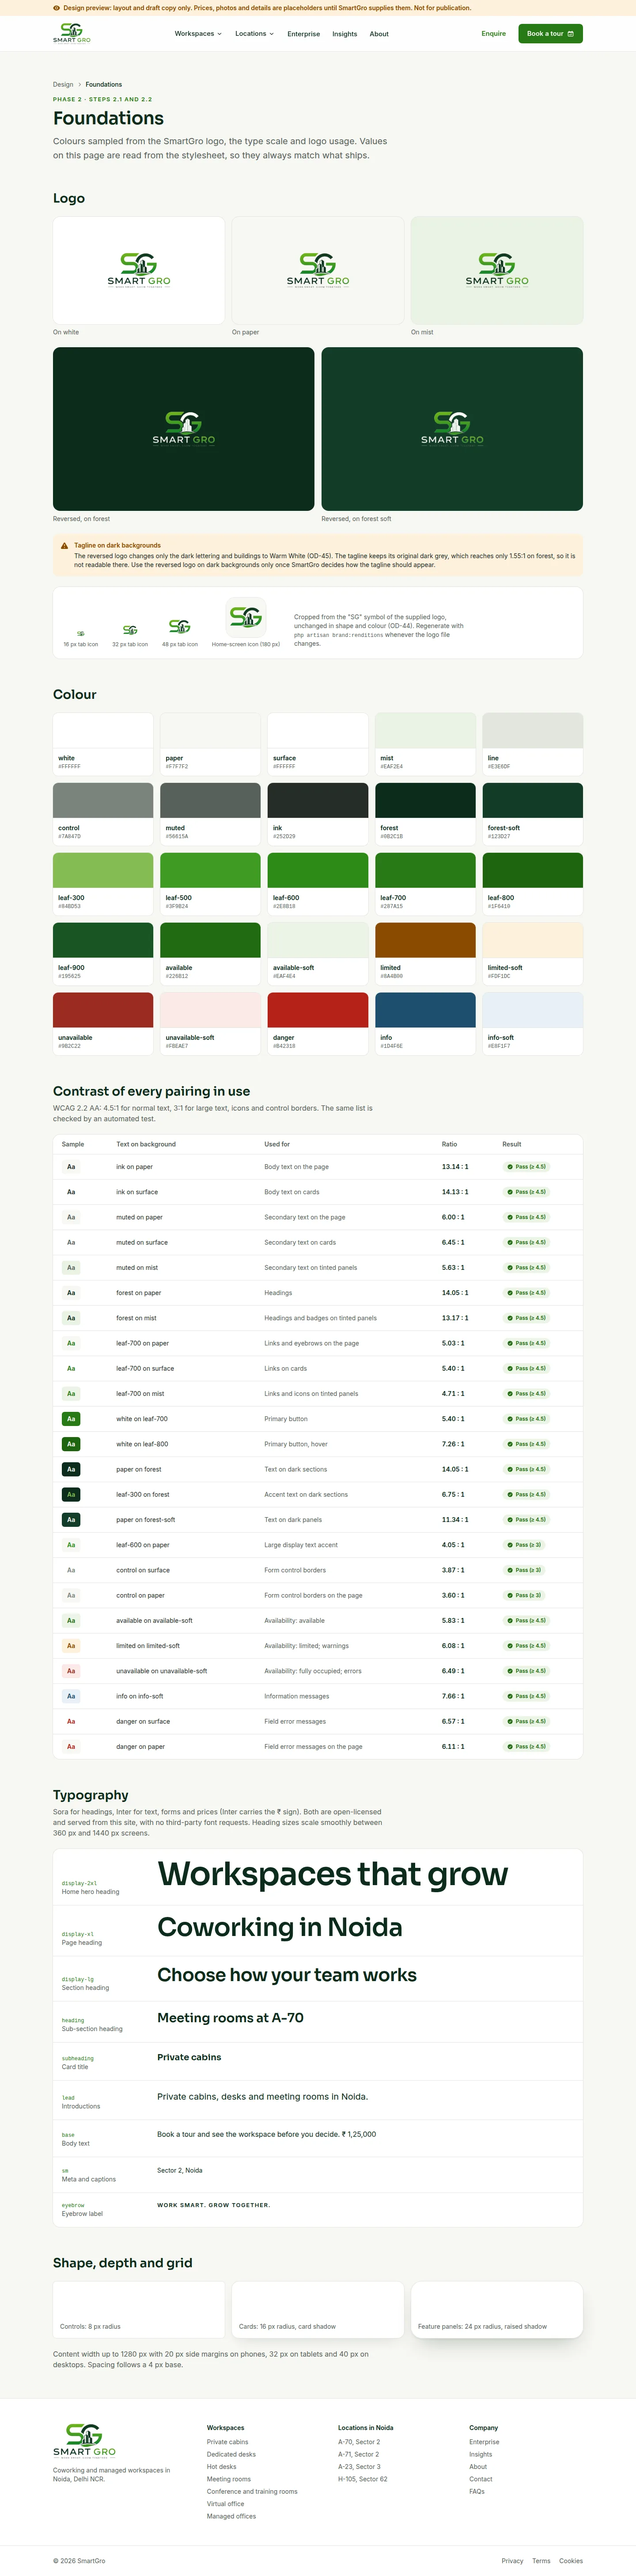
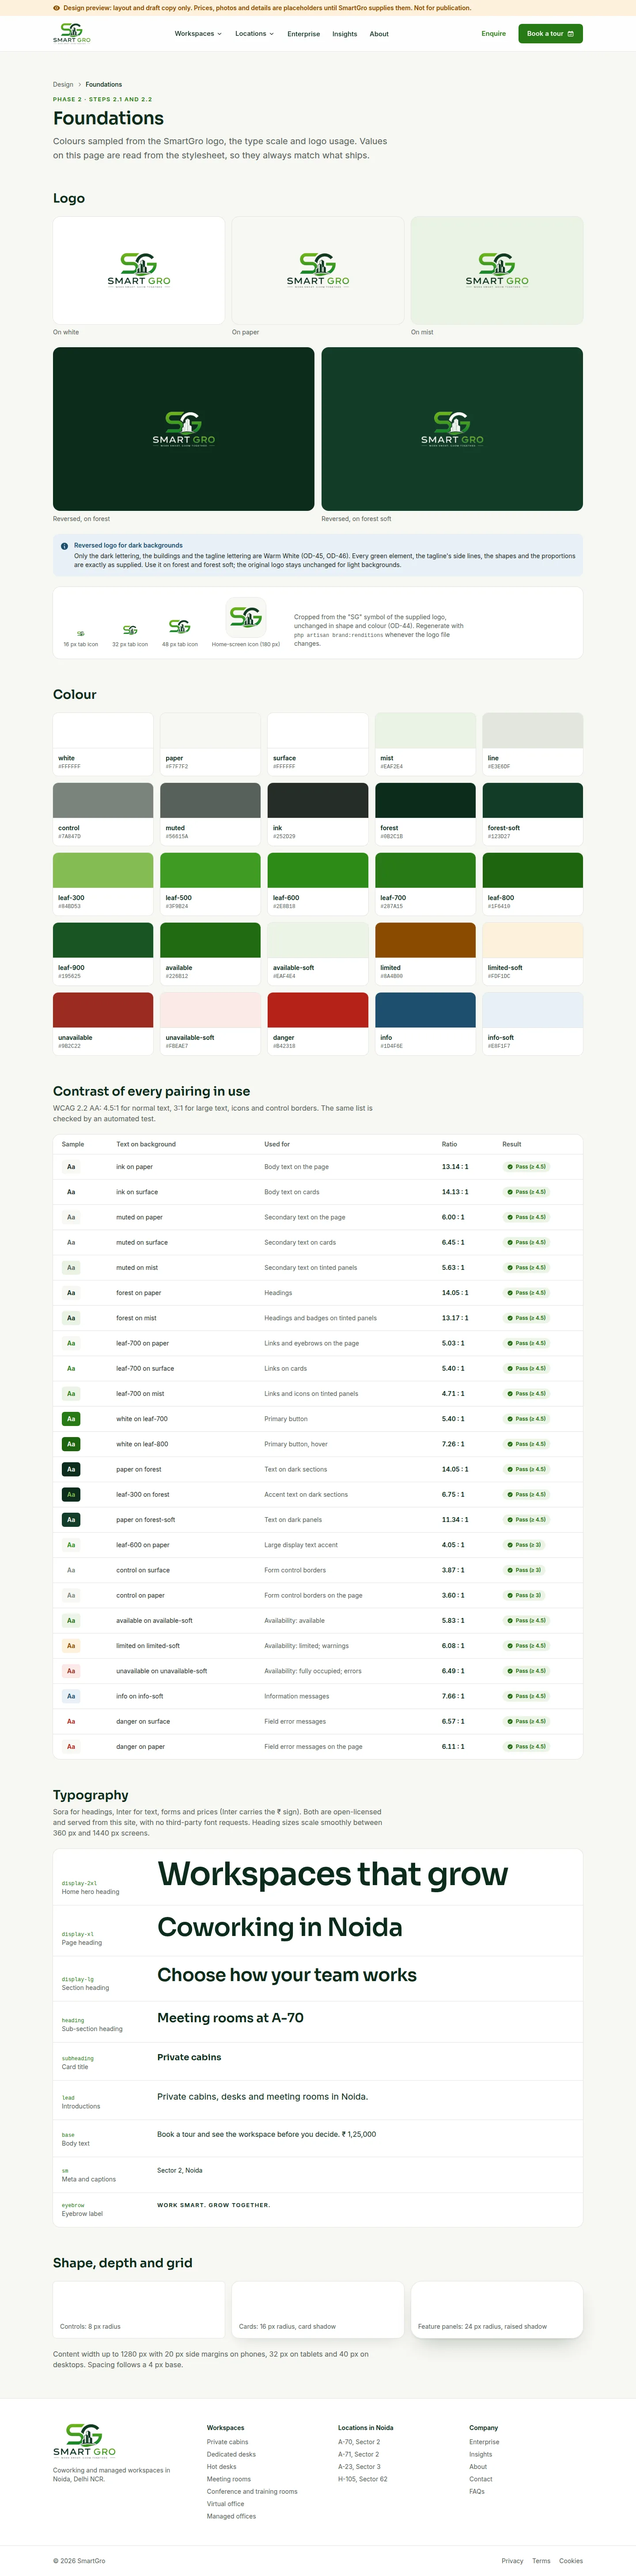
docs: record owner decision OD-46 and its verification
Decision register: OD-46 (tagline lettering white in the dark-background
logo) with the owner's conditions; P2-C still not signed off. Design
system §7.6: regression evidence. Phase status: full suite 188 passed.
Updated foundations review screenshots.

Changed region(s): [[0.0625, 0.1875, 0.9375, 0.25]]

diff --git a/docs/phases/PHASE_STATUS.md b/docs/phases/PHASE_STATUS.md
@@ -11,7 +11,7 @@
 |---|---|---|---|
 | 0 | Discovery, audit, requirements clarification | **APPROVED in principle** (project owner, 2026-10-24) | — (open items carried into Phase 1) |
 | 1 | PRD, IA, architecture, database design, acceptance criteria | **APPROVED** (owner, 2026-10-24: "continue next phase") | — (deferred items carried to the Phase 3 and Phase 5 gates) |
-| 2 | Brand system, UX/UI, design system | **IN PROGRESS** (started 2026-10-24, OD-41) | **owner review of the home-page screenshots (AC-2.5, P2-C)**; tagline on dark backgrounds (Q-OW-16); vector master still requested (D-11b) |
+| 2 | Brand system, UX/UI, design system | **IN PROGRESS** (started 2026-10-24, OD-41) | **owner review of the home-page screenshots (AC-2.5, P2-C)**; the remaining layouts wait for that approval; vector master still requested (D-11b) |
 | 3 | Foundation, auth, permissions, security | **IN PROGRESS** (started 2026-10-24) | step 3.1 needs the GitHub organisation name (D-31) and a dedicated MySQL user (R-14); staging needs the hosting decision (D-14) |
 | 4 | CMS, page builder, media, publishing | NOT STARTED | Phases 2, 3 |
 | 5 | Inventory, pricing, availability | NOT STARTED | Phase 3; entry gate: floors and real inventory, pricing values PR-1…PR-11 |
@@ -82,9 +82,9 @@
 | Steps | **2.1** colour tokens from the logo, contrast-verified · **2.2** typefaces and fluid type scale · **2.3** logo renditions (favicon, mark, reversed: *need owner approval*) · **2.4** component library with all states · **2.5** visual-direction sample (home page, 360 px and 1440 px) → **owner sign-off (AC-2.5)** · **2.6** remaining high-fidelity templates and flows · **2.7** responsive specification · **2.8** accessibility and state-coverage verification |
 | Content rule | Design previews use only confirmed facts (OD-01, OD-03, OD-04, OD-07, OD-08). Anything else (prices, hours, amenities, photography, copy) is a visibly labelled placeholder. Previews are never served in production and carry `noindex`. |
 | Acceptance criteria | `PROJECT_MASTER_PLAN.md` §2, Phase 2, AC-2.1 to AC-2.5 |
-| Progress (2026-10-24) | **Built for review:** 2.1 colour tokens sampled from the logo, all 24 pairings in use pass WCAG 2.2 AA · 2.2 Sora + Inter, self-hosted, fluid type scale · 2.4 component library (buttons, form controls, availability badges, prices, photo placeholders, alerts, empty and loading states, cards, breadcrumb, FAQ, header with menus, footer, mobile action bar, call-to-action band) · 2.5 home-page direction sample. Previews at `/design` (local and staging only). Screenshots at 360 px and 1440 px in `../design/review/2026-10-24/`. **Round 9 (OD-42…OD-45):** P2-A, P2-B, P2-D and P2-E approved; **P2-C (visual direction) not signed off**. Since then: 2.3 logo renditions built (tab icon, home-screen icon, reversed logo; `php artisan brand:renditions`) · 2.7 responsive specification written (`../design/DESIGN_SYSTEM.md` §8) · 2.8 started (page-structure and alt-text checks on every preview; no sideways scrolling at 320–1440 px). **Waiting:** step 2.6 (remaining templates) waits for AC-2.5, because it depends on the home-page direction; Q-OW-16 (tagline on dark backgrounds). |
+| Progress (2026-10-24) | **Built for review:** 2.1 colour tokens sampled from the logo, all 24 pairings in use pass WCAG 2.2 AA · 2.2 Sora + Inter, self-hosted, fluid type scale · 2.4 component library (buttons, form controls, availability badges, prices, photo placeholders, alerts, empty and loading states, cards, breadcrumb, FAQ, header with menus, footer, mobile action bar, call-to-action band) · 2.5 home-page direction sample. Previews at `/design` (local and staging only). Screenshots at 360 px and 1440 px in `../design/review/2026-10-24/`. **Round 9 (OD-42…OD-45):** P2-A, P2-B, P2-D and P2-E approved; **P2-C (visual direction) not signed off**. Since then: 2.3 logo renditions built (tab icon, home-screen icon, reversed logo; `php artisan brand:renditions`) · 2.7 responsive specification written (`../design/DESIGN_SYSTEM.md` §8) · 2.8 started (page-structure and alt-text checks on every preview; no sideways scrolling at 320–1440 px). **Round 10 (OD-46):** tagline lettering white in the dark-background logo, built and verified. **Waiting:** step 2.6 (remaining page layouts) is **not started** and waits for the owner's approval of the home page (AC-2.5). |
 | Acceptance criteria status | AC-2.1: met for everything built so far (automated test over every pairing in use). AC-2.2: home, components and foundations captured at 360 px and 1440 px; the other templates follow in 2.6. AC-2.3: buttons, form controls and cards have default, hover, focus, disabled, error, empty and loading states; templates in 2.6 reuse them. AC-2.4: nothing taken from competitors or the old site; all graphics are original (photo placeholders, isometric floor illustration). AC-2.5: **not signed off**; the owner is reviewing the screenshots (round 9). |
-| Tests and results | **Full suite, 2026-10-24 (after round 9):** `php artisan test --compact` on local MySQL 8.4 → **183 passed, 0 failed (416 assertions, 29.1 s, exit code 0)**, including the 7 MySQL concurrency-harness tests. Pint clean. Earlier: Phase 2 tests (`tests/Feature/{Services/Design,Http/Middleware/EnsureDesignPreviewIsAvailableTest.php,Http/Controllers,Views}`) **56 passed**; together with the Phase 3 tests and architecture rules **157 passed, 0 failed**. Pint clean. Build: CSS 10.7 KB gzip, first-party JS 0 KB on marketing pages. |
+| Tests and results | **Full suite, 2026-10-24 (after round 10):** `php artisan test --compact` → **188 passed, 0 failed (429 assertions, 31.8 s, exit code 0)**; of these, logo renditions 17 passed, contrast checks 28 passed, design previews/page structure/components 33 passed. Visual checks: no sideways scrolling at 320, 360, 768, 1024 or 1440 px on any preview; the home page renders pixel-identical to the screenshots under review (1440 and 360 px). **After round 9:** `php artisan test --compact` on local MySQL 8.4 → **183 passed, 0 failed (416 assertions, 29.1 s, exit code 0)**, including the 7 MySQL concurrency-harness tests. Pint clean. Earlier: Phase 2 tests (`tests/Feature/{Services/Design,Http/Middleware/EnsureDesignPreviewIsAvailableTest.php,Http/Controllers,Views}`) **56 passed**; together with the Phase 3 tests and architecture rules **157 passed, 0 failed**. Pint clean. Build: CSS 10.7 KB gzip, first-party JS 0 KB on marketing pages. |
 | Known issues | Raster logo only (D-11b): large and print uses wait for a vector master. No reversed logo, so the logo appears only on light backgrounds (P2-E). Design previews use labelled placeholders for photos, prices, availability and FAQ answers. |
 
 ## Phases 4–15
@@ -96,6 +96,7 @@ Scope, deliverables and acceptance criteria are defined in `PROJECT_MASTER_PLAN.
 
 | Date | Change |
 |---|---|
+| 2026-10-24 | Round 10: OD-46 (tagline lettering white in the dark-background logo) recorded and implemented; regression checks show only the tagline lettering changed. Home page still not signed off; remaining layouts not started. |
 | 2026-10-24 | Round 9: P2-A, P2-B, P2-D, P2-E approved (OD-42…OD-45); P2-C not signed off. Logo renditions, responsive specification and preview accessibility checks added. Q-OW-16 raised (tagline on dark backgrounds). |
 | 2026-10-24 | Phase 2 steps 2.1, 2.2, 2.4 and 2.5 built: logo-sampled tokens (all pairings AA), Sora + Inter, component library with states, home-page direction sample, previews and screenshots at 360/1440 px. 157 tests pass. Waiting on the owner for AC-2.5 and P2-A…P2-E. |
 | 2026-10-24 | Round 8 ("ok smart gro ok phase 2"): written name stays "SmartGro" (OD-40); **Phase 2 started** (OD-41). |

diff --git a/docs/design/DESIGN_SYSTEM.md b/docs/design/DESIGN_SYSTEM.md
@@ -170,7 +170,7 @@ Sampled from the supplied logo (§3.1) where a logo colour exists; the rest keep
 | P2-B | Sora for headings, Inter for text | **approved (OD-43)** |
 | P2-C | **Visual direction** shown in `review/2026-10-24/` and at `/design/home` (AC-2.5) | **under owner review**; not signed off |
 | P2-D | Favicon and app icons made by **cropping the "SG" monogram** from the supplied logo, without reshaping or recolouring | **approved (OD-44)**; built (§7.6) |
-| P2-E | A **reversed logo** for dark backgrounds made by recolouring only the dark wordmark and buildings to Warm White; geometry unchanged | **approved (OD-45)**; built (§7.6); tagline question Q-OW-16 open |
+| P2-E | A **reversed logo** for dark backgrounds made by recolouring only the dark wordmark and buildings to Warm White; geometry unchanged | **approved (OD-45)**; tagline lettering added by OD-46; built (§7.6) |
 
 ### 7.5 Engineering decisions made in Phase 2
 
@@ -186,12 +186,14 @@ Generated from the unmodified original by `php artisan brand:renditions` (`App\A
 | File | What it is |
 |---|---|
 | `public/brand/smartgro-logo.webp` | byte-identical copy of the original |
-| `public/brand/smartgro-logo-reversed.webp` | dark ink ("SMART", upper arc of the G, buildings, base arc) changed to Warm White `#F7F7F2`; greens, building faces, tagline and transparency unchanged (lossless WebP). Each pixel is treated as a blend of the ink and its nearest other logo colour, so only the ink share changes and soft edges are kept: 11,228 of 11,235 clear-green pixels are byte-identical, and the other 7 are anti-aliased edge pixels. |
+| `public/brand/smartgro-logo-reversed.webp` | dark ink ("SMART", upper arc of the G, buildings, base arc) **and the tagline lettering** (OD-46) changed to Warm White `#F7F7F2`; greens, building faces, the tagline's thin side lines and the transparency of every pixel unchanged (lossless WebP). In the symbol and wordmark each pixel is treated as a blend of the ink and its nearest other logo colour, so only the ink share changes and soft edges are kept (11,228 of 11,235 clear-green pixels byte-identical; the other 7 are anti-aliased edge pixels). In the tagline row, long runs no taller than 3 px are the side lines and are left alone; every other visible pixel is lettering. |
 | `public/brand/smartgro-mark.png` | the "SG" symbol cropped from the logo (222 px square, transparent), unchanged |
 | `public/favicon.ico` | the symbol at 16, 32 and 48 px |
 | `public/brand/apple-touch-icon.png` | the symbol at 144 px centred on a 180 px Warm White square, because iOS rounds icon corners; the symbol itself is unchanged |
 
-The site layout and the back office both link the tab icon. The back office keeps dark mode off until Q-OW-16 is decided, so the logo never appears with an unreadable tagline.
+The site layout and the back office both link the tab icon. The back office still has dark mode off; with the complete reversed logo it can now be switched on (not done yet).
+
+**Tagline change verified (2026-10-24, OD-46):** compared with the previous reversed logo, 0 pixels changed outside the tagline row and 0 side-line pixels changed; all 1,445 visible lettering pixels are Warm White; the transparency of every pixel is identical to the original, so the letters, "WORK SMART. GROW TOGETHER.", proportions and alignment are exactly as supplied. Tagline lettering on forest: 14.06 : 1 (was 1.55 : 1). The original file is unchanged (SHA-256 `2957453080…964b`, as recorded in OD-39), and the web copy, symbol, tab icon and home-screen icon are byte-identical to before.
 
 ---
 

diff --git a/docs/decisions/DECISION_REGISTER.md b/docs/decisions/DECISION_REGISTER.md
@@ -182,7 +182,14 @@ Source: the owner's instruction "Proceed with the approved design-system decisio
 | OD-44 | **P2-D approved:** the browser-tab icon is the original "SG" symbol, cropped, unchanged in shape and colour. |
 | OD-45 | **P2-E approved:** a dark-background logo that keeps the original green elements and changes only the dark lettering and buildings to white. Interpretation: "dark lettering and buildings" covers every element drawn in the logo's dark ink: the word "SMART", the upper arc of the G (same ink as the buildings), the buildings and the arc beneath them. The tagline is a different, grey colour and was not specified, so it is left unchanged (see Q-OW-16). |
 | P2-C | **Not approved.** The owner will review the desktop and mobile screenshots first. Phase 2 visual sign-off (AC-2.5) stays open; work that depends on the home-page direction (step 2.6) waits. |
-| Q-OW-16 | **Open.** On dark backgrounds the tagline keeps its grey (`#444444`), which reaches only **1.55 : 1** on forest and is not readable. Options: (a) also change the tagline lettering to Warm White (its thin lines stay as supplied, 3.82 : 1); (b) leave it as supplied and accept it is unreadable on dark backgrounds. **Recommended: (a).** |
+| Q-OW-16 | **→ answered: OD-46.** On dark backgrounds the tagline keeps its grey (`#444444`), which reaches only **1.55 : 1** on forest and is not readable. Options: (a) also change the tagline lettering to Warm White (its thin lines stay as supplied, 3.82 : 1); (b) leave it as supplied and accept it is unreadable on dark backgrounds. **Recommended: (a).** |
+
+### 0.14 Owner decision — 2026-10-24 (round 10)
+
+| ID | Decision |
+|---|---|
+| OD-46 | **Owner-approved: the tagline lettering is white in the dark-background logo** (Q-OW-16, option a). Conditions set by the owner: only the dark-grey tagline lettering changes to white; the tagline stays exactly "WORK SMART. GROW TOGETHER."; the thin side lines are unchanged; the original green elements, proportions, shapes and alignment are preserved; the original logo is unchanged, and this applies only to the dark-background variant. Implemented 2026-10-24 (`App\Actions\Brand\GenerateBrandRenditions`); evidence in `../design/DESIGN_SYSTEM.md` §7.6. |
+| P2-C | **Still not signed off** (round 10). The remaining page layouts (step 2.6) are not started until the owner approves the home page. |
 
 ---
 
